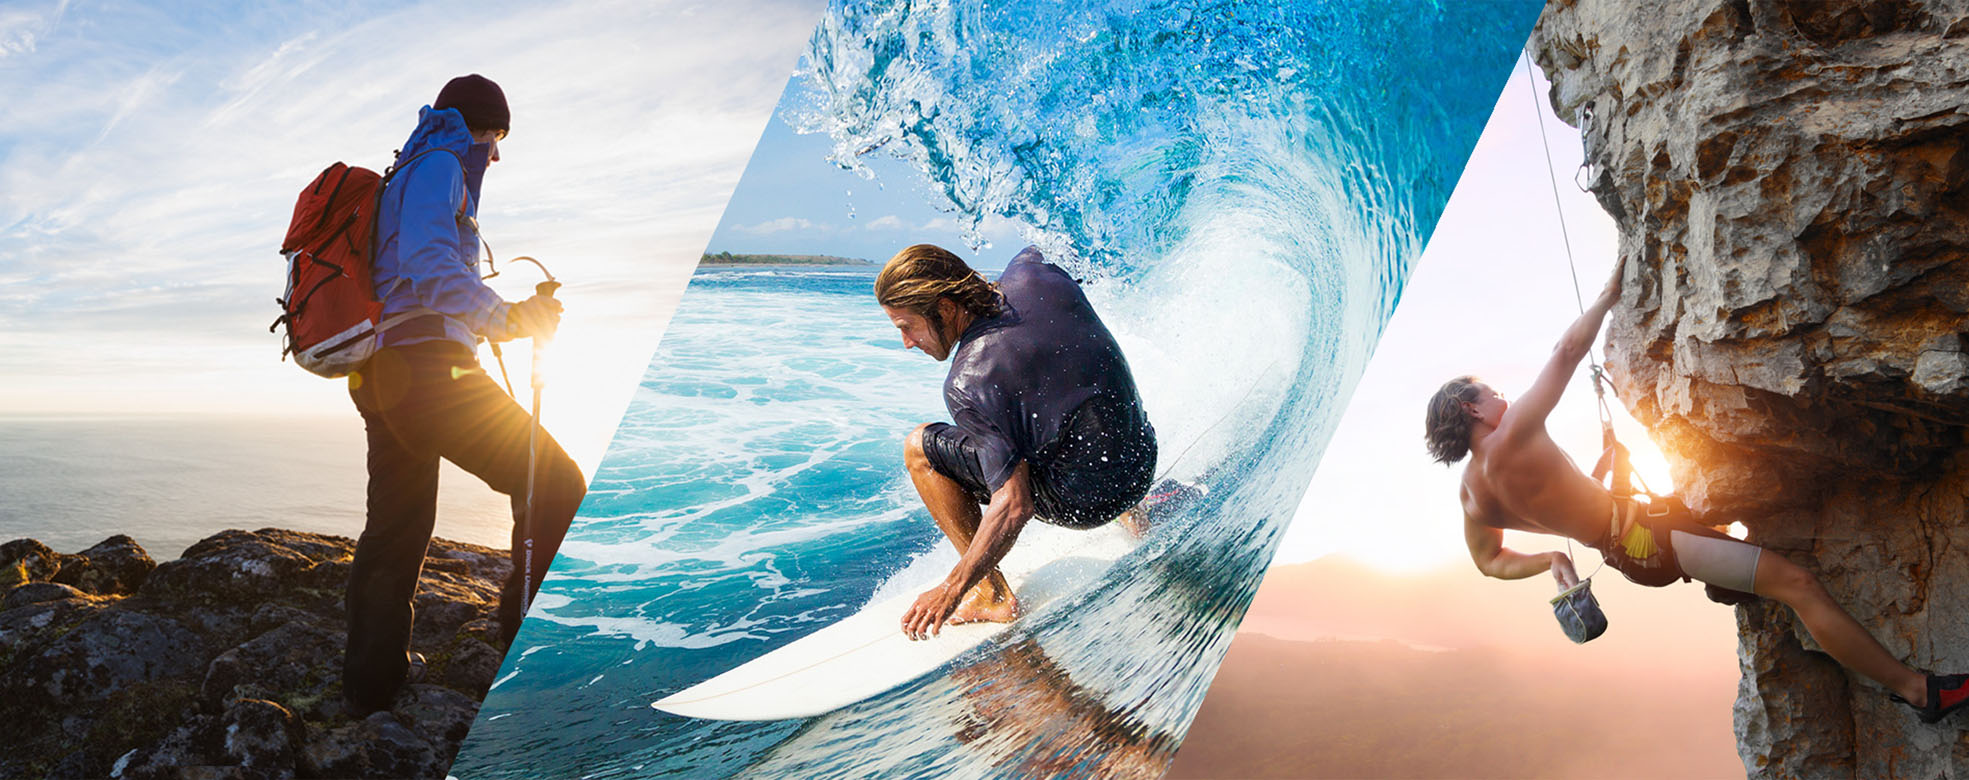
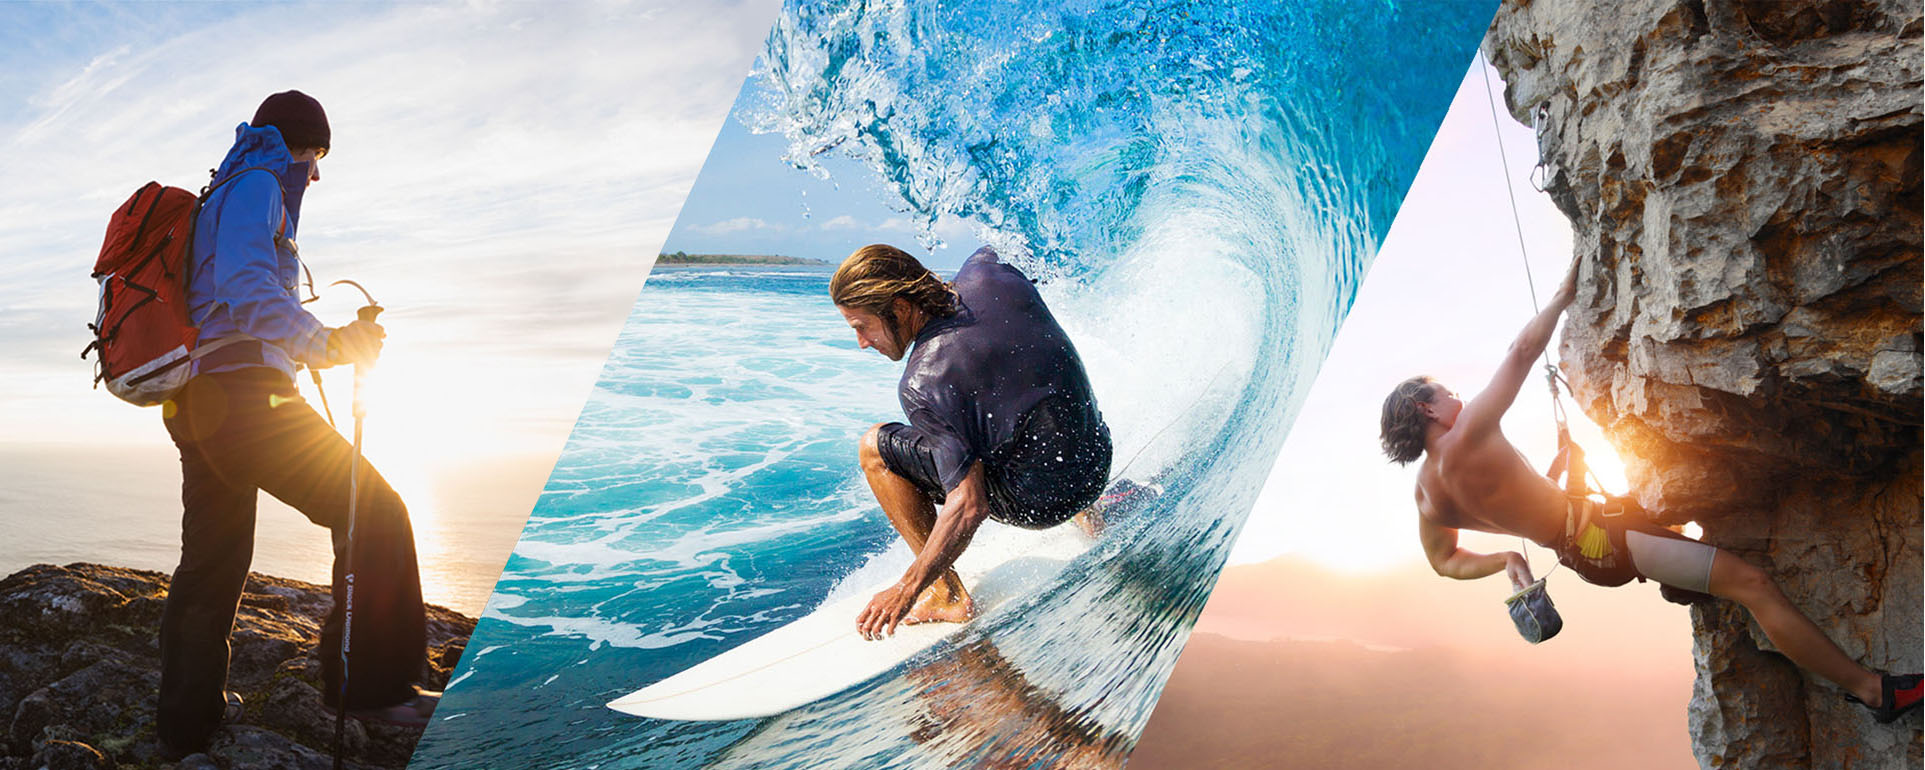
Third commit

diff --git a/public/css/style.css b/public/css/style.css
@@ -1,6 +1,11 @@
 html, body{
 	width: 100%;
 }
+h3{
+	margin: 0;
+	color: #2C2C2C;
+
+}
 a{
 	color:#FFF;
 }
@@ -30,7 +35,7 @@ header img{
 }
 #contenu{
 	position: absolute;
-	top:0;
+	margin-top:-50px;
 	z-index: 20;
 }
 section{
@@ -44,29 +49,46 @@ section{
 #myCarousel .carousel-inner{
 	height:100%;
 }
+#info{
+	height:100vh;
+}
+#valeurs{
+	height: auto;
+	text-align: center;
+}
+#valeurs .val{
+	margin-top: -20px;
+}
+#valeurs .val h3{
+	margin-bottom: 10px;
+}
 section .val img{
 	width: 100%;
 }
 #app-and{
 	background-color: #343434;
-	height: 300px;
-	padding: 0;
-	z-index: 10;
+	height:375px;
 }
+#app-and h3{
+	color: #fff;
+}
+
 #app-and .animation.animated-item-4 {
   -webkit-animation: fadeInUp 300ms linear 1200ms both;
   -moz-animation: fadeInUp 300ms linear 1200ms both;
   -o-animation: fadeInUp 300ms linear 1200ms both;
   -ms-animation: fadeInUp 300ms linear 1200ms both;
   animation: fadeInUp 300ms linear 1200ms both;
-  z-index: 5;
-}
-#app-and .app-margin{
-  margin-top: 47px;
 }
 #app-and #phone {
   text-align: right;
   position: absolute;
+}
+#app-and li {
+  width: 150px;
+}
+#app-and li img{
+  width: 100%;
 }
 #phone img{
 	width:50%;
@@ -77,6 +99,17 @@ section .val img{
 }
 #ttof img{
 	width:100%;
+	float: left;
+}
+#ttof .animation.animated-item-4 {
+  -webkit-animation: fadeInUp 300ms linear 1200ms both;
+  -moz-animation: fadeInUp 300ms linear 1200ms both;
+  -o-animation: fadeInUp 300ms linear 1200ms both;
+  -ms-animation: fadeInUp 300ms linear 1200ms both;
+  animation: fadeInUp 300ms linear 1200ms both;
+}
+#ttof .img-txt{
+	position: absolute;
 }
 #news{
 	padding: 20px 0px;
@@ -86,6 +119,8 @@ section .val img{
 #news button{
 	background-color: #70bd49;
 	padding: 10px 15px;
+	margin-top: 30px;
+	margin-bottom: -10px;
 }
 footer{
 	background-color: #343434;
@@ -97,8 +132,18 @@ footer p{
 	margin-top: 10px;
 }
 @media (max-width: 767px){
+	h3{
+		font-size: 12px;
+	}
+	#myCarousel{
+	height:auto;
+	}
+	#myCarousel ol{
+	bottom: 20px;
+	}
 	#banner{
-		padding: 27.5px 0px;
+		height:50px;
+		padding: 15px 0px;
 	}
 	#banner .container{
 		height: 100%;
@@ -111,10 +156,18 @@ footer p{
 	.navbar-right {
 		display: none;
 	}
-}
-@media (min-width: 992px) and (max-width: 1199px) {
-	#app-and .app-margin{
-	  margin-top: 88px;
+	#valeurs{
+	  height:auto;
+	  max-height: 280px;
+	}
+	#app-and{
+	  height:auto;
+	  min-height:320px;
+	}
+	#phone img{
+		float: left;
+		min-width: 125px;
+		margin: auto;
 	}
 }
 @media (min-width: 992px){
